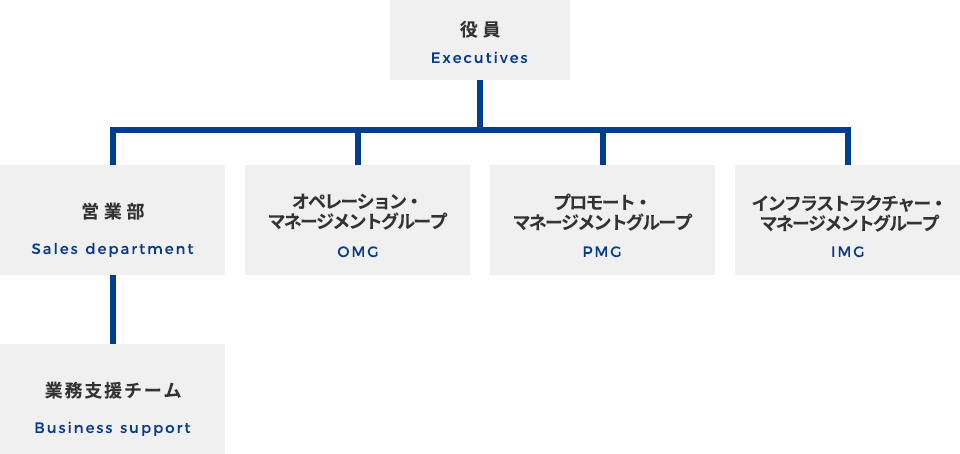
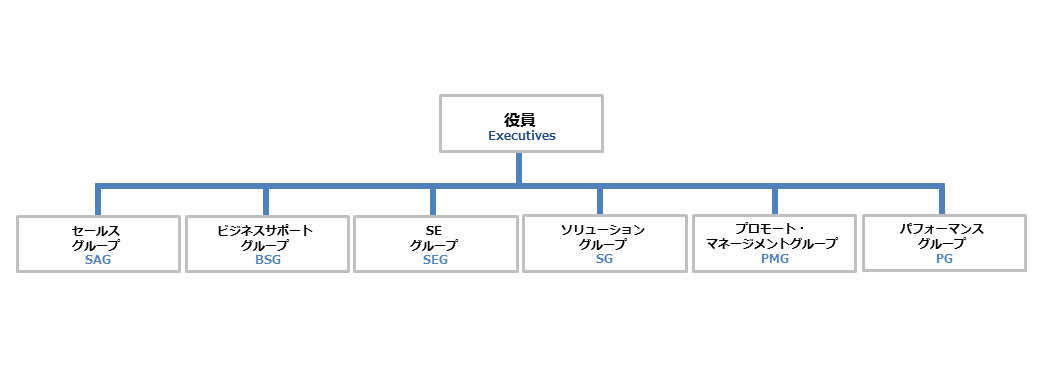
組織図の画像と日時を更新

diff --git a/src/company/profile/index.html b/src/company/profile/index.html
@@ -86,7 +86,7 @@ title: 会社概要・組織図
         <section>
             <h2>組織図</h2>
             <div class="smtSent">
-                <p class="textRight">2016年7月現在</p>
+                <p class="textRight">2017年6月現在</p>
                 <div class="lightBox">
                     <figure>
 
